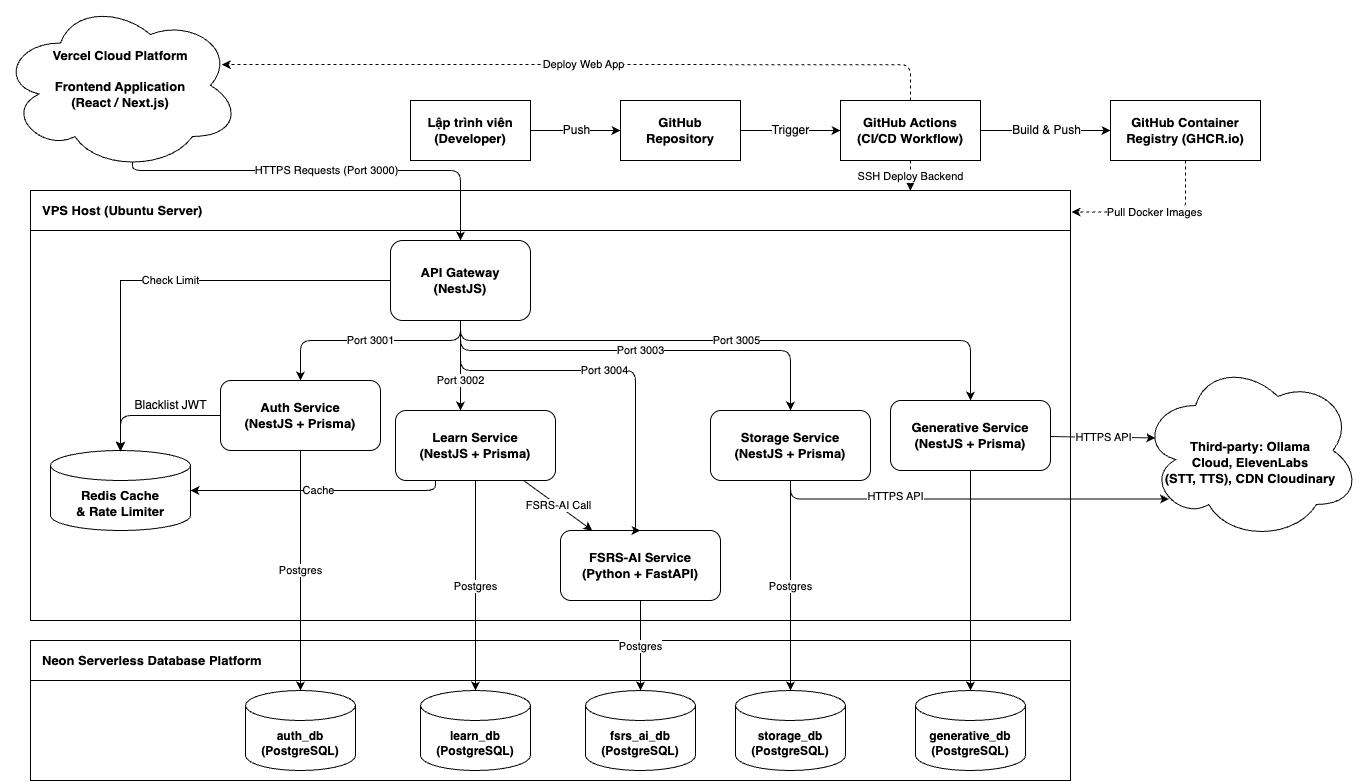
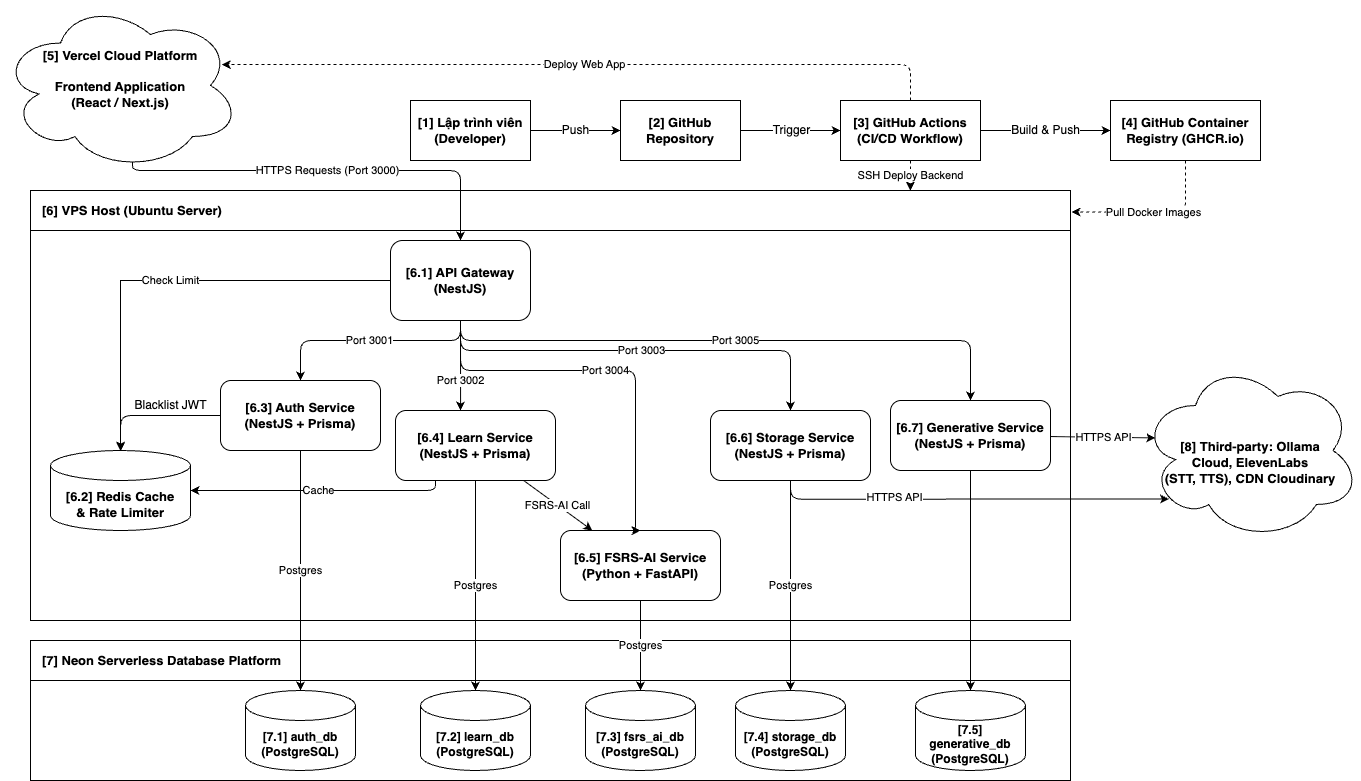
feat(generative): increase LLM output token limit to 1800 to prevent truncated JSON

diff --git a/generative/src/modules/roleplay/roleplay.service.ts b/generative/src/modules/roleplay/roleplay.service.ts
@@ -301,12 +301,13 @@ export class RoleplayService {
       });
     }
 
-    // 1. Fetch last N messages
+    // 1. Fetch last N messages (newest first, then reversed for chronological order)
     const pastMessages = await this.prisma.message.findMany({
       where: { sessionId },
-      orderBy: { createdAt: 'asc' },
+      orderBy: { createdAt: 'desc' },
       take: 20, // Limit context history
     });
+    pastMessages.reverse();
 
     // 2. Append new user message
     const newUserMsg = await this.prisma.message.create({
@@ -531,7 +532,7 @@ export class RoleplayService {
       system: systemPrompt,
       json: true,
       options: {
-        num_predict: 600, // Limit response token length for faster generation
+        num_predict: 1800, // Limit response token length for faster generation
       },
     });
 